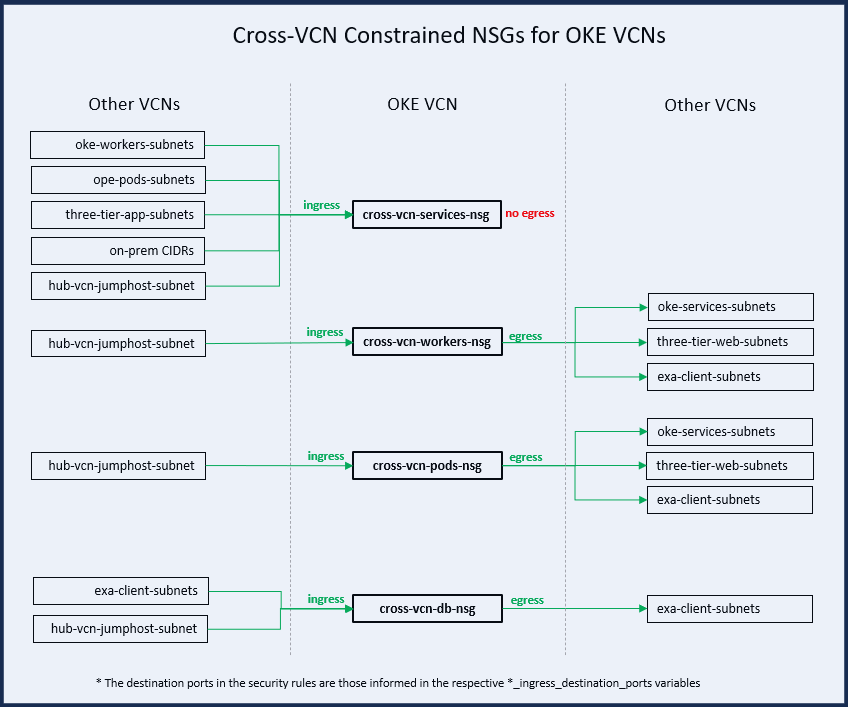
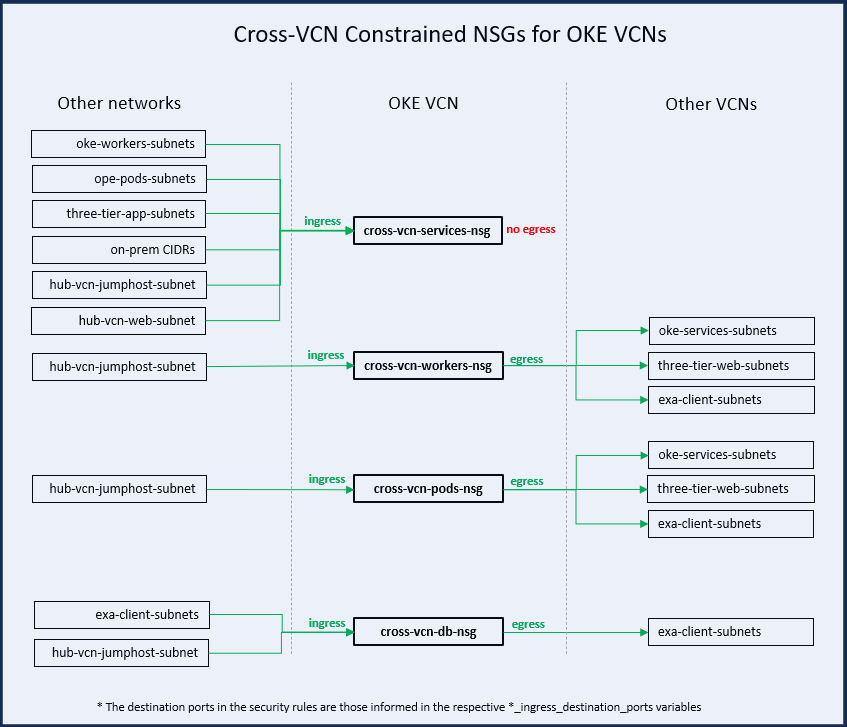
feat: allowed cidrs/ports to lbr nsg and open NSG for Hub VCN.

diff --git a/DEPLOYMENT-GUIDE.md b/DEPLOYMENT-GUIDE.md
@@ -308,7 +308,7 @@ The Hub VCN NSGs protect shared ingress, inspection, management, and operator ac
   - **ingress:** from on-premises CIDRs over SSH port 22.
   - **egress:** to firewall management, Oracle Services Network (OSN), and selected spoke subnets over SSH port 22.
 - **app-load-balancer-nsg**
-  - **ingress:** from external CIDRs allowed to reach load balancers deployed in the Hub VCN.
+  - **ingress:** when the Hub Web subnet is public, from *onprem_cidrs* plus the external CIDRs defined by *hub_vcn_external_allowed_cidrs_into_web_tier*, over ports defined by *hub_vcn_web_ingress_destination_ports*. When the Hub Web subnet is private, allowed CIDRs come only from *onprem_cidrs*.
   - **egress:** controlled by *hub_vcn_app_load_balancer_nsg_egress_rules*.
 
 Attach Hub-specific custom NSGs by setting *define_hub_vcn_additional_nsgs = true* and providing *hub_vcn_additional_nsgs* as a native HCL map/object or JSON object string. This is useful for SD-WAN edge VNICs, shared service endpoints, or custom hub appliances that should not be mixed into the default management, jump host, or inspection NSGs.
@@ -541,29 +541,28 @@ exa_vcn1_additional_nsgs = {
 
 #### Cross-VCN Network Security Rules
 
-Core Landing Zone provides two Network Security Group (NSG) modes for on-premises and cross-VCN connectivity: open or constrained. Constrained NSGs are enabled by default and take precedence when both modes are enabled.
+Core Landing Zone provides two Network Security Group (NSG) modes for on-premises and cross-VCN connectivity: open or constrained. Constrained NSGs are enabled by default and take precedence for spoke VCNs when both modes are enabled. Hub VCN keeps its default constrained connectivity rules for upgrade continuity; when open NSG is requested for Hub VCN, the open NSG is created and left unattached by default.
 
 ##### Cross-VCN Open NSGs
 
-- Enabled when *enable_cross_vcn_open_nsg = true* and *enable_cross_vcn_constrained_nsgs = false*.
-- Creates one NSG per VCN. The security rules allow *all protocols* from every other connected VCN CIDR, as well as on-premises CIDRs.
+- Enables open security rules for cross-VCN communication paths. The security rules allow *all protocols* from every other connected VCN CIDR, as well as on-premises CIDRs. One NSG is created per VCN.
+- Enabled for spoke VCNs when *enable_cross_vcn_open_nsg = true* and *enable_cross_vcn_constrained_nsgs = false*. For Hub VCN, it is created when *enable_cross_vcn_open_nsg = true*.
 - Automatically shrinks when you disconnect a VCN or remove an on-premises CIDR.
 - Ideal for lab environments or when another control point (for example, OCI Network Firewall or a third-party appliance) already performs deep inspection and segmentation.
 
 ##### Cross-VCN Constrained NSGs
 
-- Enforces opinionated, stricter cross-VCN communication paths.
-- Enabled by default when *enable_cross_vcn_constrained_nsgs = true*. If both cross-VCN NSG modes are enabled, constrained NSGs take precedence.
-- Creates a few NSGs for each VCN. The security rules sources and destinations are defined according to a usage where the VCNs define an entry point for other consuming VCNs. For three-tier VCNs, this entrypoint is an endpoint deployed in the Web subnet; for OKE VCNs, it is an endpoint in the Services subnet; and for Exadata, it is an endpoint in the Client subnet. The protocols and ports in the security list are those configured by the *\*_ingress_destination_ports* variables available for each VCN. 
+- Enforces opinionated, stricter cross-VCN communication paths. The security rules sources and destinations are defined according to a usage where the VCNs define an entry point for other consuming networks For three-tier VCNs, this entrypoint is an endpoint deployed in the Web subnet; for OKE VCNs, it is an endpoint in the Services subnet; and for Exadata, it is an endpoint in the Client subnet. The protocols and ports in the security list are those configured by the *\*_ingress_destination_ports* variables available for each VCN. A few NSGs are created per VCN.
+- Enabled by default when *enable_cross_vcn_constrained_nsgs = true*. If both cross-VCN NSG modes are enabled, constrained NSGs take precedence for spoke VCNs. Hub VCN keeps its constrained defaults even when the open NSG is requested.
 - Automatically shrinks when you disconnect a VCN or remove an on-premises CIDR.
 - Ideal for environments where there is no control point (for example, OCI Network Firewall or a third-party appliance) to perform deep inspection and segmentation.
 
 - **Three-tier Cross-VCN NSGs**  
   - **cross-vcn-lbr-nsg**:
-    - **ingress**: from other three-tier app subnets, OKE pods, OKE workers, on-premises CIDRs, and the Hub VCN Jump Host subnet. 
+    - **ingress**: from other three-tier app subnets, OKE pods, OKE workers, Hub VCN Jump Host, Hub VCN web subnets, and on-premises CIDRs.
     - **egress**: no egress path to other VCNs.  
   - **cross-vcn-app-nsg**:
-    - **ingress**: from the Hub VCN Jump Host subnet for SSH connectivity.
+    - **ingress**: from the Hub VCN Jump Host subnet for SSH connectivity, and from Hub VCN Web subnet for application endpoint connectivity.
     - **egress**: to three-tier web subnets, OKE services subnets, and Exadata client subnets.  
   - **cross-vcn-db-nsg**:
     - **ingress**: from Exadata client subnets (for shared database services) and the Hub VCN Jump Host subnet.
@@ -573,7 +572,7 @@ Core Landing Zone provides two Network Security Group (NSG) modes for on-premise
 
 - **OKE Cross-VCN NSGs**  
   - **cross-vcn-services-nsg**:
-    - **ingress**: from other OKE workers/pods subnets, three-tier app subnets, on-prem CIDRs, and the Hub VCN Jump Host.
+    - **ingress**: from other OKE workers/pods subnets, three-tier app, on-prem CIDRs, Hub VCN Jump Host, Hub VCN Web subnets, and on-premises CIDRs.
     - **egress**: no egress path to other VCNs. 
   - **cross-vcn-workers-nsg**:
     - **ingress**: from the Hub VCN Jump Host subnet.

diff --git a/VARIABLES.md b/VARIABLES.md
@@ -374,8 +374,8 @@
 |---------------|-------------|------|---------|----------|
 | customize\_hub\_vcn\_subnets | Whether to customize default subnets settings of the Hub VCN. Applicable to RMS deployments only, used for UI displaying. | bool | false | no |
 | define\_hub\_vcn\_additional\_nsgs | When true, Landing Zone provisions additional Hub VCN NSGs from hub\_vcn\_additional\_nsgs. | bool | false | no |
-| enable\_cross\_vcn\_constrained\_nsgs | When true, Landing Zone provisions constrained NSGs that enable DRG-attached and routable VCNs to connect according to Landing Zone provided rules. Enabled by default and takes precedence over enable\_cross\_vcn\_open\_nsg when both are true. | bool | true | no |
-| enable\_cross\_vcn\_open\_nsg | When true, Landing Zone provisions an open NSG that enables DRG-attached and routable VCNs to fully connect. Effective only when enable\_cross\_vcn\_constrained\_nsgs is false. | bool | false | no |
+| enable\_cross\_vcn\_constrained\_nsgs | When true, Landing Zone provisions constrained NSGs that enable DRG-attached and routable VCNs to connect according to Landing Zone provided rules. Enabled by default and takes precedence over enable\_cross\_vcn\_open\_nsg for spoke VCNs when both are true. | bool | true | no |
+| enable\_cross\_vcn\_open\_nsg | When true, Landing Zone provisions an open NSG that enables DRG-attached and routable VCNs to fully connect. For spoke VCNs, it is effective only when enable\_cross\_vcn\_constrained\_nsgs is false. For Hub VCN, the open NSG is created when requested and left unattached by default. | bool | false | no |
 | enable\_native\_firewall\_threat\_log | Enable OCI Native Firewall Threat Log. | bool | false | no |
 | enable\_native\_firewall\_traffic\_log | Enable OCI Native Firewall Traffic Log. | bool | false | no |
 | existing\_drg\_ocid | The OCID of an existing DRG that you want to reuse for hub deployment. Only applicable if hub\_deployment\_option is 'VCN or on-premises connectivity routing via DRG (existing DRG)' or 'VCN or on-premises connectivity routed through DMZ VCN with Network Virtual Appliance existing DRG (DMZ VCN will be created and DRG ID required)'. | string | null | no |
@@ -387,6 +387,7 @@
 | hub\_vcn\_dns | The Hub VCN DNS name. | string | null | no |
 | hub\_vcn\_enable\_internet\_gateway | When checked, access from the Internet is enabled into the Hub VCN via an Internet Gateway. When unchecked, an Internet Gateway is not deployed and access from Internet is blocked. | bool | true | no |
 | hub\_vcn\_east\_west\_entry\_point\_ocid |The OCID of the private IP address of the Indoor Network Load Balancer, where inbound internal cross-vcn traffic (East/West) traffic is sent to in the Hub VCN. | string | null | no |
+| hub\_vcn\_external\_allowed\_cidrs\_into\_web\_tier | The list of external CIDR blocks allowed for ingress packets into the Hub VCN App Load Balancer NSG. Effective only when hub\_vcn\_web\_subnet\_is\_private is false. Use this to limit the range of IP addresses that can access the Hub VCN web tier. | list(string) | ["0.0.0.0/0"] | no |
 | hub\_vcn\_indoor\_subnet\_cidr | The Hub VCN Indoor subnet CIDR block. It must be within the VCN CIDR blocks. | string | null | no |
 | hub\_vcn\_indoor\_subnet\_dns | The Hub VCN Indoor subnet DNS name. Use only letters and numbers, no special characters. | string | null | no |
 | hub\_vcn\_indoor\_subnet\_name | The Hub VCN Indoor subnet name. | string | null | no |
@@ -405,6 +406,7 @@
 | hub\_vcn\_web\_subnet\_is\_private | Whether the Web subnet private. It is public by default. | bool | false | no |
 | hub\_vcn\_web\_subnet\_jump\_host\_allowed\_cidrs | List of CIDRs allowed to SSH into the Web subnet via a jump host eventually deployed in the Web subnet. Leave empty for no access. | list(string) | [] | no |
 | hub\_vcn\_web\_subnet\_name | The Hub VCN Web subnet name. | string | null | no |
+| hub\_vcn\_web\_ingress\_destination\_ports | The list of protocols and destination ports allowed for ingress packets into the Hub VCN App Load Balancer NSG. These ports are allowed from onprem\_cidrs plus hub\_vcn\_external\_allowed\_cidrs\_into\_web\_tier when the Hub VCN Web subnet is public, and from onprem\_cidrs when it is private. Each value is a colon-separated entry like "TCP:443". | list(string) | ["TCP:443"] | no |
 | hub\_vcn\_deploy\_net\_appliance\_option | The network appliance option to deploy in the Hub VCN. | string | Default is "Don't deploy any network appliance at this time". Other valid values: "Marketplace Image", "User-Provided Virtual Network Appliance", "OCI Native Firewall". Costs may be incurred. For "Marketplace Image", users are required to provide either net\_appliance\_marketplace\_image\_ocid or net\_appliance\_marketplace\_image\_name (with optional net\_appliance\_marketplace\_image\_version) variables. **NOTE THAT BY DEPLOYING A MARKETPLACE IMAGE USING THIS TERRAFORM MODULE YOU ARE IMPLICITLY AGREEING WITH ALL OCI MARKETPLACE TERMS, INCLUDING THE PRICING MODEL THAT APPLY TO THE SELECTED IMAGE.** Marketplace image information can be obtained by running [Marketplace Images](https://github.com/oci-landing-zones/terraform-oci-modules-workloads/tree/main/marketplace-images/examples/marketplace-images). For "User-Provided Virtual Network Appliance", users are required to provide net\_appliance\_image\_ocid variable. | no |
 | net\_appliance\_image\_vendor | The image vendor for the network appliance. Valid values are "PALOALTO", "FORTINET", "OTHER". Used to select the default Network Load Balancer health checker for Marketplace Image and User-Provided Virtual Network Appliance deployments. | string | null | no |
 | net\_appliance\_marketplace\_image\_ocid   | The marketplace image OCID for the network appliance. Applicable when hub\_vcn\_deploy\_net\_appliance\_option is set to "Marketplace Image". | string | null | no |
